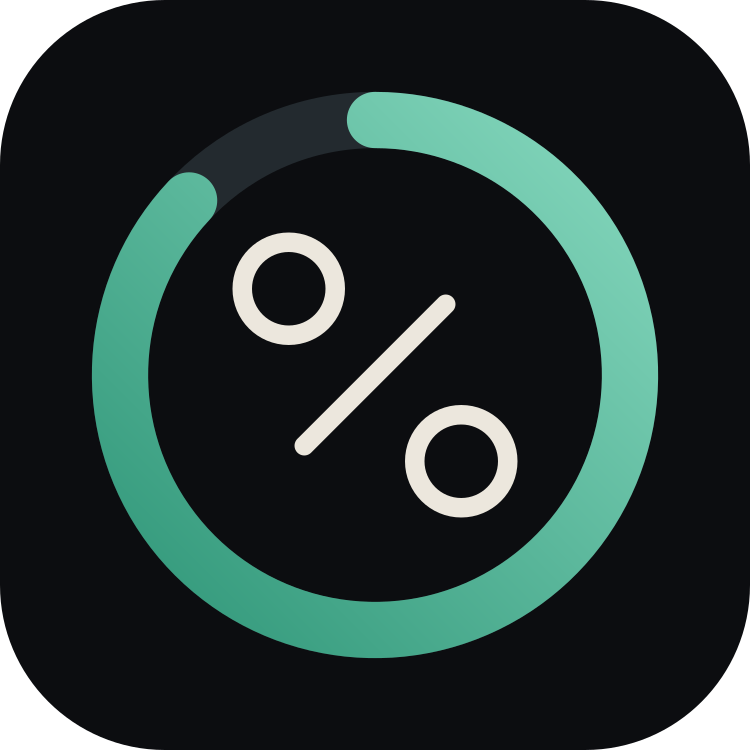
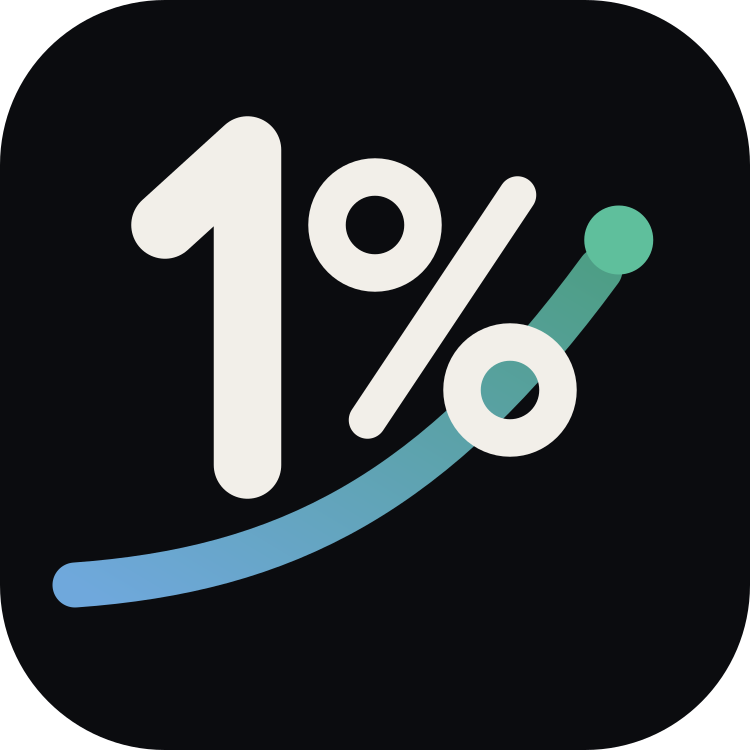
Add files via upload

diff --git a/src/modules/ghisa/Screen.tsx b/src/modules/ghisa/Screen.tsx
@@ -6,7 +6,7 @@
 import { useEffect, useMemo, useRef, useState } from 'react'
 import { SampleDataBlock } from '../../app/ui'
 import Confetti from '../../app/Confetti'
-import { Bars, pickLabels } from '../../app/charts'
+import { Bars, AreaLine } from '../../app/charts'
 import { toast } from '../../core/toast'
 import type { ReactNode, CSSProperties } from 'react'
 import { useStore } from '../../core/hooks'
@@ -284,49 +284,8 @@ function GBarChart({ data }: { data: { label: string; vol: number; ts?: number }
 }
 
 function GAreaChart({ data, fmt }: { data: { label: string; value: number }[]; fmt?: (v: number) => string }) {
-  const W = 320
-  const H = 160
-  const pad = { t: 10, b: data.length > 6 ? 32 : 18, l: 8, r: 8 }
-  const gid = useRef('g' + Math.random().toString(36).slice(2, 8)).current
-  const vals = data.map((d) => d.value)
-  const min = Math.min(...vals)
-  const max = Math.max(...vals)
-  const span = max - min || 1
-  const x = (i: number) => pad.l + (i * (W - pad.l - pad.r)) / Math.max(1, data.length - 1)
-  const y = (v: number) => pad.t + (H - pad.t - pad.b) * (1 - (v - min) / span)
-  const line = data.map((d, i) => `${i === 0 ? 'M' : 'L'}${x(i).toFixed(1)},${y(d.value).toFixed(1)}`).join(' ')
-  const area = `${line} L${x(data.length - 1).toFixed(1)},${H - pad.b} L${x(0).toFixed(1)},${H - pad.b} Z`
-  const lblIdx = pickLabels(data.length, 5)
-  const angled = data.length > 6
-  return (
-    <svg viewBox={`0 0 ${W} ${H}`} width="100%" height="100%" preserveAspectRatio="none" className="gh2-chart" role="img" aria-label="Progression">
-      <defs>
-        <linearGradient id={gid} x1="0" y1="0" x2="0" y2="1">
-          <stop offset="0%" stopColor="#F97316" stopOpacity="0.35" />
-          <stop offset="100%" stopColor="#F97316" stopOpacity="0" />
-        </linearGradient>
-      </defs>
-      <g className="gh2-chartreveal">
-        <path d={area} fill={`url(#${gid})`} />
-        <path d={line} className="line" fill="none" />
-        <circle cx={x(data.length - 1)} cy={y(data[data.length - 1].value)} r="3.4" className="dot" />
-      </g>
-      {data.map((d, i) =>
-        lblIdx.has(i) ? (
-          <text key={i} x={x(i)} y={H - 5} textAnchor={angled ? 'end' : 'middle'} className="lbl"
-            transform={angled ? `rotate(-32 ${x(i)} ${H - 5})` : undefined}>{d.label}</text>
-        ) : null,
-      )}
-      <text x={W - pad.r} y={pad.t + 6} textAnchor="end" className="lbl hi tnum">
-        {fmt ? fmt(max) : String(round1(max))}
-      </text>
-    </svg>
-  )
+  return <AreaLine data={data} accentVar="var(--m-ghisa)" height={160} fmt={fmt} ariaLabel="Progression" />
 }
-
-/* ----------------------------- rest bar ----------------------------- */
-
-export interface RestState { total: number; endsAt: number }
 
 function RestBar({ rest, onAdjust, onSkip }: {
   rest: RestState | null; onAdjust: (d: number) => void; onSkip: () => void

diff --git a/src/app/charts.tsx b/src/app/charts.tsx
@@ -195,3 +195,62 @@ export function Line({
     </svg>
   )
 }
+
+/** The house area chart — smooth progression with soft fill, endpoint value,
+    and the same ≤5 horizontal labels as Bars. No rotated text, ever. */
+export function AreaLine({
+  data,
+  accentVar,
+  height = 160,
+  fmt,
+  ariaLabel = 'Progression',
+}: {
+  data: { label: string; value: number }[]
+  accentVar: string
+  height?: number
+  fmt?: (v: number) => string
+  ariaLabel?: string
+}) {
+  const gid = useRef('ca' + Math.random().toString(36).slice(2, 8)).current
+  const W = 320
+  const H = height
+  const pad = { t: 16, b: 18, l: 6, r: 10 }
+  if (data.length < 2) {
+    return <svg viewBox={`0 0 ${W} ${H}`} width="100%" height={H} className="cbar" role="img" aria-label={ariaLabel} />
+  }
+  const vals = data.map((d) => d.value)
+  const min = Math.min(...vals)
+  const max = Math.max(...vals)
+  const span = max - min || 1
+  const pts = data.map((d, i) => ({
+    x: pad.l + (i * (W - pad.l - pad.r)) / (data.length - 1),
+    y: pad.t + (H - pad.t - pad.b) * (1 - (d.value - min) / span),
+  }))
+  const d = smoothPath(pts)
+  const last = pts[pts.length - 1]
+  const area = `${d} L${last.x.toFixed(1)},${H - pad.b} L${pts[0].x.toFixed(1)},${H - pad.b} Z`
+  const lastVal = data[data.length - 1].value
+  const valTxt = fmt ? fmt(lastVal) : String(Math.round(lastVal * 10) / 10)
+  const labels = pickLabels(data.length, 5)
+  return (
+    <svg viewBox={`0 0 ${W} ${H}`} width="100%" height={H} preserveAspectRatio="none" className="cbar" role="img" aria-label={ariaLabel}>
+      <defs>
+        <linearGradient id={gid} x1="0" y1="0" x2="0" y2="1">
+          <stop offset="0%" stopColor={accentVar} stopOpacity="0.3" />
+          <stop offset="100%" stopColor={accentVar} stopOpacity="0" />
+        </linearGradient>
+      </defs>
+      <path d={area} fill={`url(#${gid})`} />
+      <path d={d} fill="none" stroke={accentVar} strokeWidth={2.2} strokeLinecap="round" vectorEffect="non-scaling-stroke" className="cbar-trend" />
+      <circle cx={last.x} cy={last.y} r={3.2} fill={accentVar} stroke="var(--bg, #0c0d10)" strokeWidth={1.5} />
+      <text x={Math.min(last.x, W - pad.r - 2)} y={Math.max(10, last.y - 8)} textAnchor="end" className="cbar-val tnum">{valTxt}</text>
+      {data.map((dd, i) =>
+        labels.has(i) ? (
+          <text key={'t' + i} x={pts[i].x} y={H - 3.5} textAnchor={i === 0 ? 'start' : i === data.length - 1 ? 'end' : 'middle'} className="cbar-lbl">
+            {dd.label}
+          </text>
+        ) : null,
+      )}
+    </svg>
+  )
+}

diff --git a/src/app/TabBar.tsx b/src/app/TabBar.tsx
@@ -1,4 +1,27 @@
+import { useLayoutEffect, useRef, useState, type RefObject } from 'react'
 import { navigate, type Route } from '../core/router'
+
+/** Hevy-style sliding pill: measure the active tab, glide the indicator to
+    it. Measurement-based, so it survives variable widths and the module
+    bar's horizontal scroll. */
+export function useTabGlider(activeKey: string): {
+  innerRef: RefObject<HTMLDivElement | null>
+  glider: { x: number; w: number } | null
+} {
+  const innerRef = useRef<HTMLDivElement | null>(null)
+  const [glider, setGlider] = useState<{ x: number; w: number } | null>(null)
+  useLayoutEffect(() => {
+    const measure = () => {
+      const el = innerRef.current?.querySelector<HTMLElement>('.tab.on')
+      if (!el) { setGlider(null); return }
+      setGlider({ x: el.offsetLeft, w: el.offsetWidth })
+    }
+    measure()
+    window.addEventListener('resize', measure)
+    return () => window.removeEventListener('resize', measure)
+  }, [activeKey])
+  return { innerRef, glider }
+}
 
 function RingIcon() {
   return (
@@ -37,9 +60,17 @@ const TABS = [
 ] as const
 
 export default function TabBar({ route }: { route: Route }) {
+  const { innerRef, glider } = useTabGlider(route.name)
   return (
     <nav className="tabbar" aria-label="Main">
-      <div className="tabbar-inner">
+      <div className="tabbar-inner" ref={innerRef}>
+        {glider && (
+          <span
+            className="tab-glider"
+            aria-hidden="true"
+            style={{ transform: `translateX(${glider.x}px)`, width: glider.w }}
+          />
+        )}
         {TABS.map((t) => {
           const on = route.name === t.name || (t.name === 'settings' && route.name === 'modules')
           return (

diff --git a/src/design/app.css b/src/design/app.css
@@ -5795,3 +5795,30 @@ html, body { touch-action: manipulation; overflow-x: hidden; overscroll-behavior
   box-shadow: 0 4px 14px rgba(0, 0, 0, 0.25);
   border-radius: 10px;
 }
+
+/* v0.17.0 — edge fades, tab glider, chart value tag */
+.edge-fade { position: fixed; left: 0; right: 0; pointer-events: none; z-index: 30; }
+.edge-fade.top {
+  top: 0; height: calc(env(safe-area-inset-top, 0px) + 48px);
+  background: linear-gradient(to bottom, var(--bg) 20%, transparent);
+}
+.edge-fade.bottom {
+  bottom: 0; height: calc(env(safe-area-inset-bottom, 0px) + 96px);
+  background: linear-gradient(to top, var(--bg) 12%, transparent);
+}
+
+.tabbar-inner { position: relative; }
+.tab { position: relative; z-index: 1; }
+.tab.on { background: transparent; }
+.tab-glider {
+  position: absolute; top: 0; bottom: 0; left: 0; z-index: 0;
+  border-radius: var(--r-pill, 99px);
+  background: color-mix(in srgb, var(--ink) 8%, transparent);
+  transition: transform 0.32s cubic-bezier(0.3, 0.72, 0.26, 1.1), width 0.32s cubic-bezier(0.3, 0.72, 0.26, 1.1);
+  will-change: transform, width;
+}
+.tab svg { transition: transform 0.26s cubic-bezier(0.3, 0.7, 0.3, 1.45); }
+.tab.on svg { transform: translateY(-1.5px) scale(1.07); }
+@media (prefers-reduced-motion: reduce) { .tab-glider { transition: none; } .tab svg { transition: none; } }
+
+.cbar-val { fill: var(--ink); font-size: 11px; font-weight: 700; }

diff --git a/src/app/ModuleTabBar.tsx b/src/app/ModuleTabBar.tsx
@@ -1,4 +1,5 @@
 import { navigate } from '../core/router'
+import { useTabGlider } from './TabBar'
 import type { ModuleTab } from '../core/types'
 
 /**
@@ -14,9 +15,17 @@ export default function ModuleTabBar({
   tabs: readonly ModuleTab[]
   active: string
 }) {
+  const { innerRef, glider } = useTabGlider(String((typeof location !== 'undefined' ? location.hash : '')))
   return (
     <nav className="tabbar tabbar-mod" aria-label="Module">
-      <div className="tabbar-inner">
+      <div className="tabbar-inner" ref={innerRef}>
+        {glider && (
+          <span
+            className="tab-glider"
+            aria-hidden="true"
+            style={{ transform: `translateX(${glider.x}px)`, width: glider.w }}
+          />
+        )}
         {tabs.map((t) => (
           <button
             key={t.id}

diff --git a/src/app/App.tsx b/src/app/App.tsx
@@ -168,6 +168,8 @@ export default function App() {
   return (
     <>
       <a className="skip-link" href="#main">Skip to content</a>
+      <div className="edge-fade top" aria-hidden="true" />
+      <div className="edge-fade bottom" aria-hidden="true" />
       <main className="frame" id="main" tabIndex={-1}>
         <div className="view" key={route.name === 'module' ? 'm-' + route.id + '-' + (route.tab ?? '') : route.name}>
         <Suspense fallback={<ScreenLoader />}>

diff --git a/public/sw.js b/public/sw.js
@@ -3,7 +3,7 @@
    first visit). Assets: cache-first (Vite hashes make staleness impossible).
    Updates: the new worker WAITS; the app shows "Update ready" and the person
    chooses the moment. No mid-session rug-pulls. */
-var CACHE = 'onepercent-v42'
+var CACHE = 'onepercent-v43'
 var CORE = ['./', './manifest.webmanifest', './icon.svg', './icon-192.png']
 
 self.addEventListener('install', function (event) {

diff --git a/src/screens/Settings.tsx b/src/screens/Settings.tsx
@@ -10,7 +10,7 @@ import { syncStore, connect, disconnect, backupNow, restoreLatest, FIREBASE_CONF
 import { seedAllSampleData, removeAllSampleData, anySampleData } from '../core/sampledata'
 import { navigate } from '../core/router'
 
-const APP_VERSION = '0.16.0'
+const APP_VERSION = '0.17.0'
 
 const THEME_OPTIONS = [
   { id: 'system', label: 'System' },

diff --git a/README.md b/README.md
@@ -27,6 +27,10 @@ One app, many instruments. Enable only the modules you want; everything feeds on
 | **SANA** | Stacks of supplements & medicines — dial, per-stack take-all, history heatmap, reference library | Doses left today |
 | **CALIBER** | Strength meter — e1RM, level bar with your target marker, per-lift trends, standards tables | — |
 
+**New in v0.17.0 — the new mark, edge fades, gliding tabs, house area charts**
+
+The new 1% brand mark — white numeral, gradient swoosh rising to a jade endpoint dot — is applied everywhere: favicon, PWA icons, maskable, apple-touch, App Store 1024, and all seven iOS splash screens, drawn as pure vector geometry so it's crisp at 16px and 1024. Hevy-style **edge fades** now melt content into the background at both screen ends (theme-aware, safe-area sized), so the clock and notch always sit on clean ground. The bottom pills got their motion: a measured **sliding indicator** glides between tabs with a soft overshoot and the icons give a tiny lift — main bar and module bars both, including the scrollable ones. Exercise-detail charts joined the house grammar: a new `AreaLine` (smooth path, soft fill, endpoint dot + value tag, ≤5 horizontal labels — the rotated clipped months are gone) now powers GHISA's 1RM/Volume progression. And confirmed after inspection, not changed: **PR badges are already live** — `detectPRs` runs the instant a set is marked done, comparing against all saved history for Weight, 1RM (Epley), and Reps.
+
 **New in v0.16.0 — native lock, house charts, swipe-to-delete**
 
 The app now behaves like an installed app: pinch and double-tap zoom are disabled in standalone mode (`user-scalable=no` + `touch-action: manipulation` — browser-tab Safari deliberately keeps pinch as an accessibility backstop), and sideways drift is gone (`overflow-x` clipped at every level; the iOS edge-swipe-back system gesture is untouched). Module headers state only what a module *is* — "Workout log", "Habit tracker" — no more truncated taglines. Charts got a single house grammar in `src/app/charts.tsx`: gradient bars with soft-rounded tops over faint full-height rails, at most five axis labels (first and last always, collisions impossible), and a rolling-mean **trend line** with an endpoint dot riding over the bars — applied to the Profile ledger (won weeks tint jade), GHISA's volume chart, the engine's week-by-week, and a matching house sparkline for CALIBER. And GHISA's swipe-left-to-delete is back from the prototype: track the finger, the row slides off a red Delete field, past half-width it's gone — with a new `removeSet` model action that blanks the last remaining set instead of orphaning the card.
